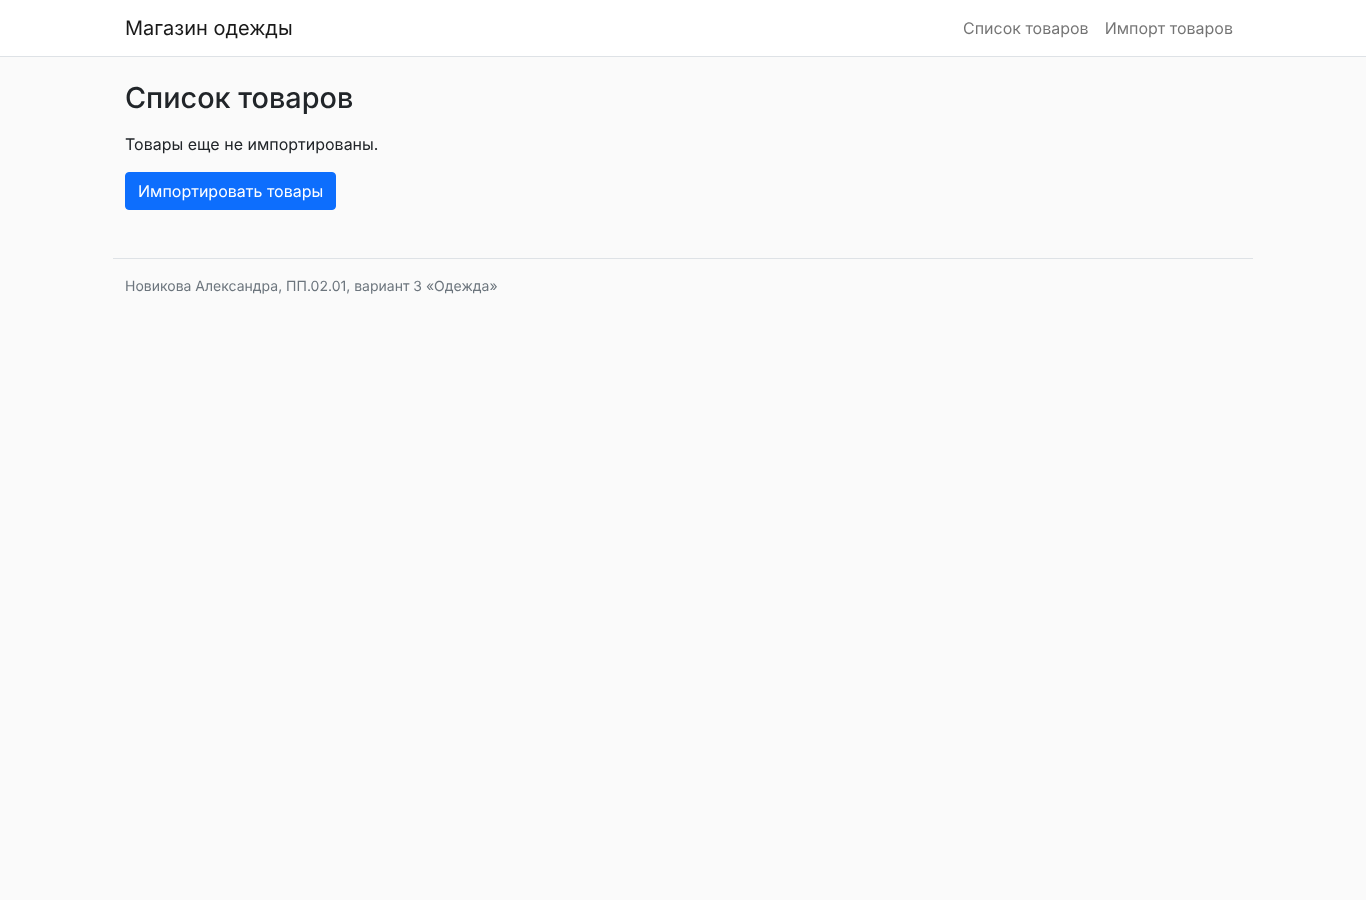
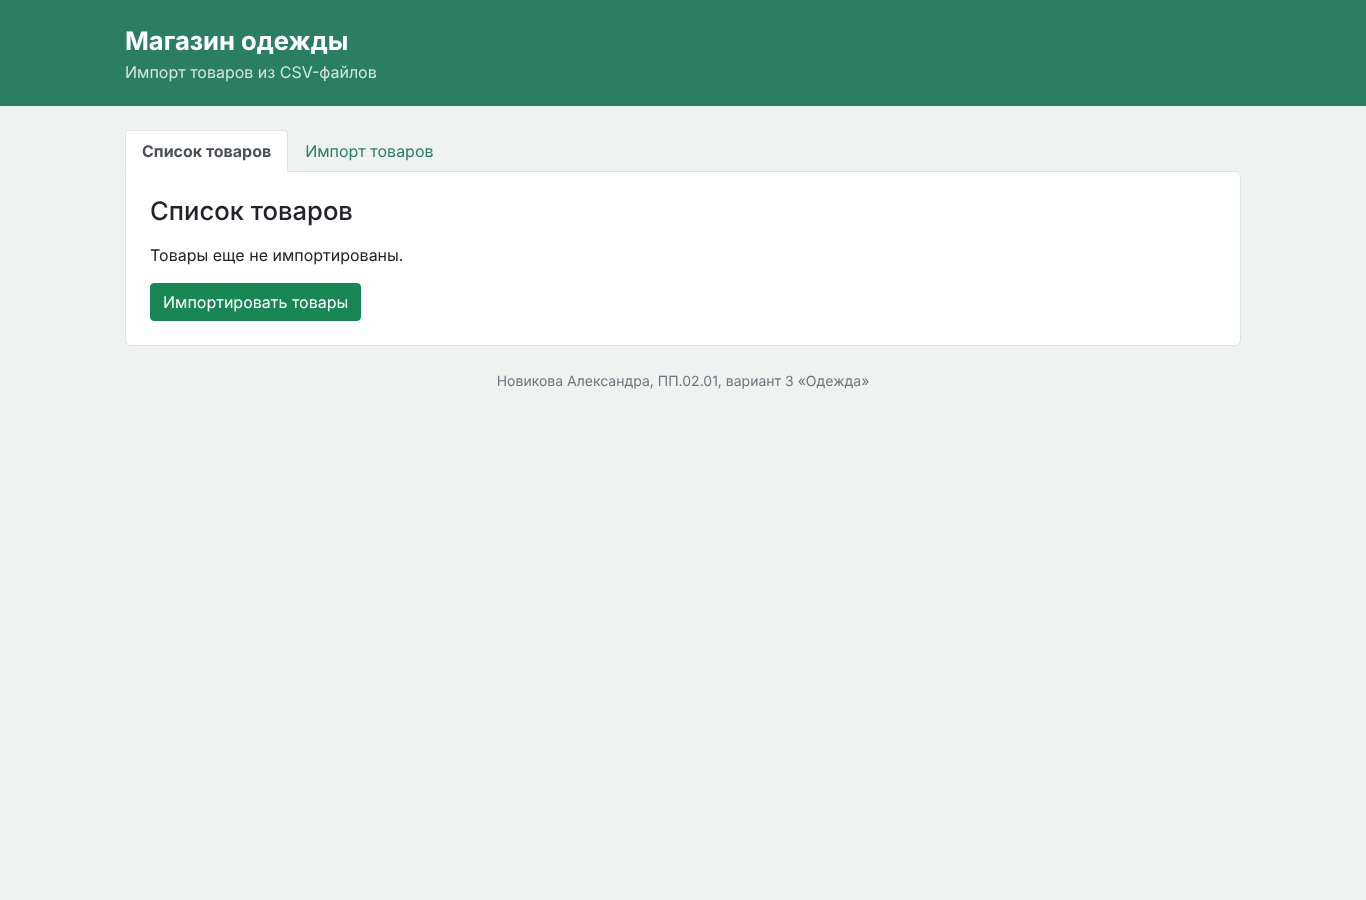
Change site layout: header, tabs and green theme

diff --git a/src/ECommerceCsvImport/wwwroot/css/site.css b/src/ECommerceCsvImport/wwwroot/css/site.css
@@ -1,12 +1,50 @@
 body {
-    background-color: #fafafa;
+    background-color: #eef3f1;
+}
+
+/* шапка сайта */
+.site-header {
+    background-color: #2a7f62;
+    color: #fff;
+    padding: 22px 0;
+    margin-bottom: 24px;
+}
+
+.site-title {
+    font-size: 1.6rem;
+    font-weight: bold;
+}
+
+.site-subtitle {
+    opacity: 0.8;
+}
+
+/* вкладки и белый блок с содержимым */
+.nav-tabs {
+    border-bottom: none;
+}
+
+.nav-tabs .nav-link {
+    color: #2a7f62;
+}
+
+.nav-tabs .nav-link.active {
+    font-weight: bold;
+}
+
+.page {
+    background-color: #fff;
+    border: 1px solid #dee2e6;
+    border-radius: 0 6px 6px 6px;
+    padding: 24px;
 }
 
 h1 {
-    font-size: 1.8rem;
+    font-size: 1.6rem;
     margin-bottom: 1rem;
 }
 
-table td, table th {
-    vertical-align: middle;
+/* заголовки таблиц */
+.page table th {
+    background-color: #e3f1ec;
 }
